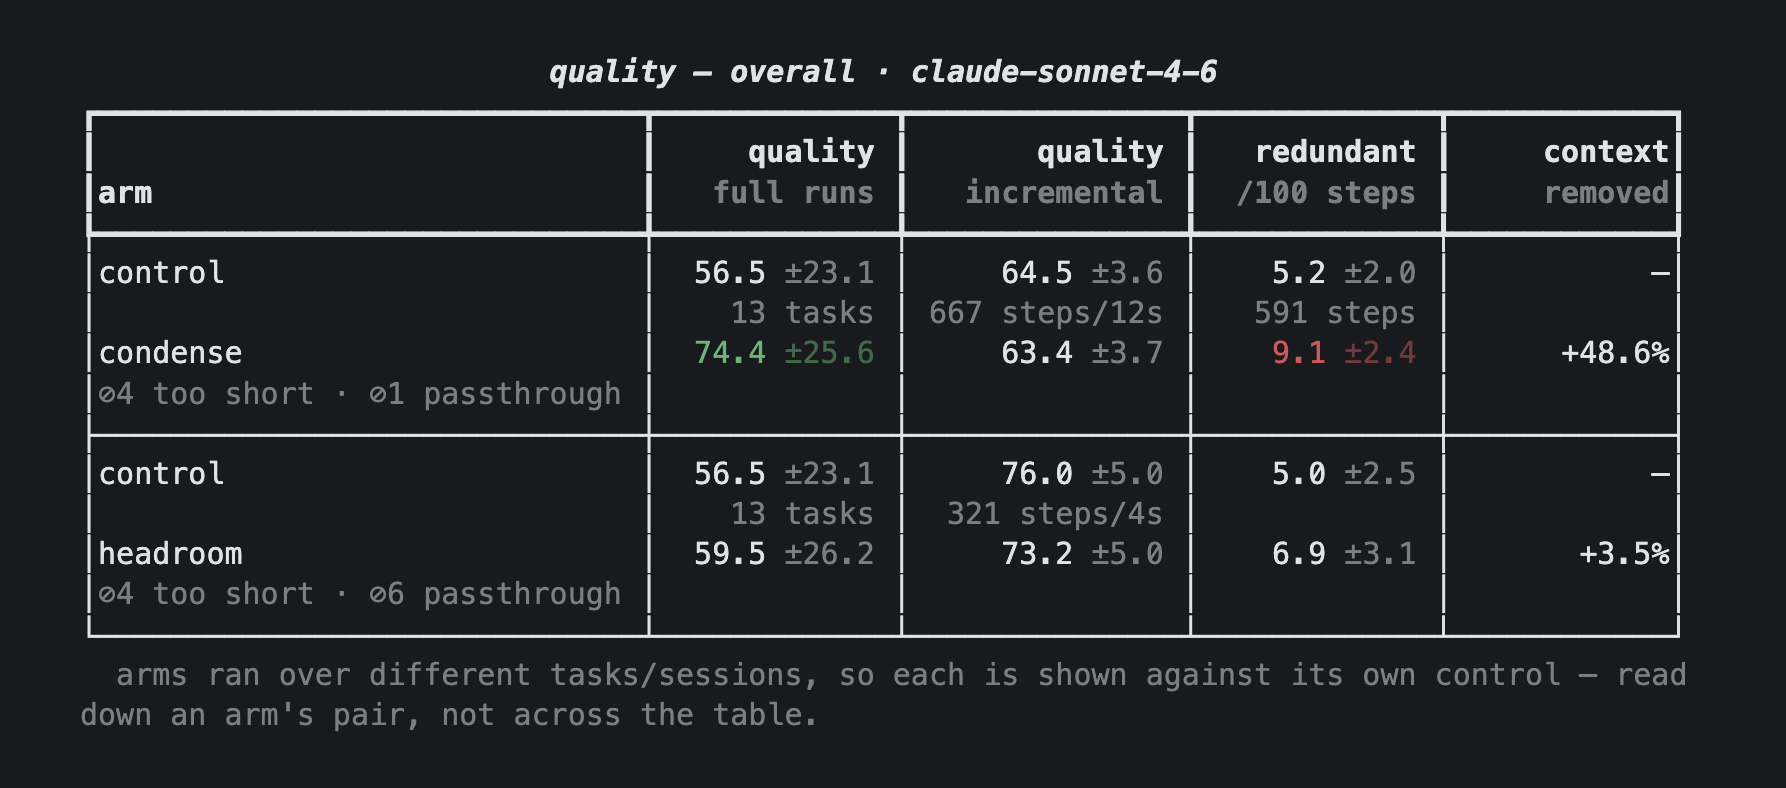
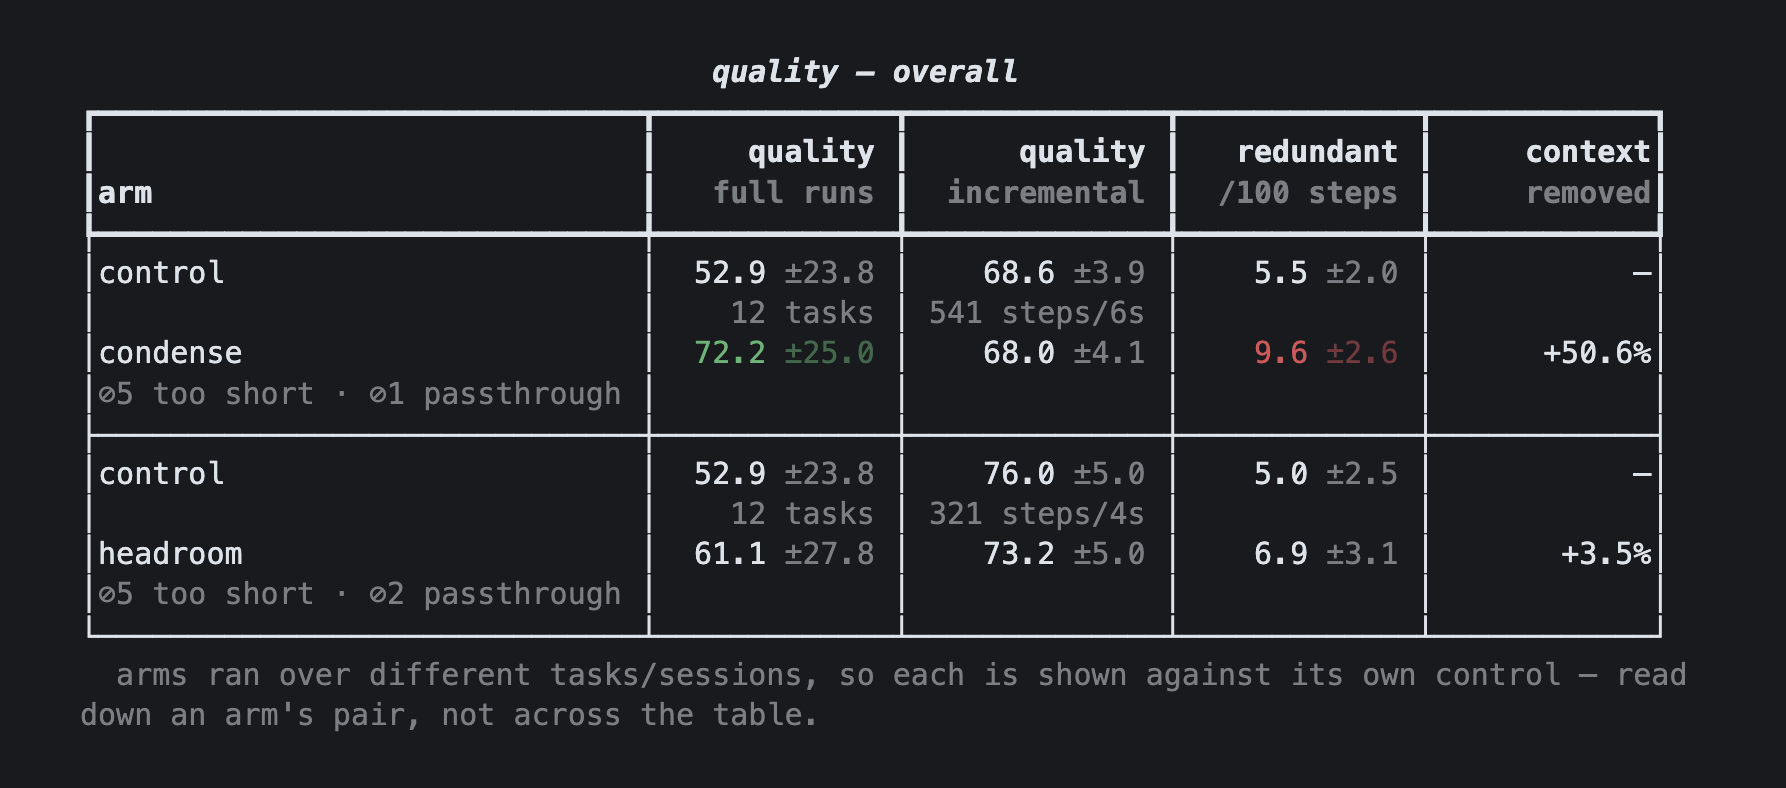
docs: regenerate the overall figure from post-release runs only
The screenshot pooled every incremental session under results/jobs/run, which
reaches back to July 8 — before the headful batch, and so a condense version we
are no longer shipping. Its numbers are not what the current product does, and a
README figure that quietly averages two versions of the thing under test is the
one kind of error this table exists to prevent.

Re-rendered over the post-headful roots only (headful, headful-opus,
headful-sonnet, headfull-opus, headfull-sonnet). condense's incremental pool goes
from 12 sessions to 6, and its per-step quality reads 68.0 against a 68.6 control
rather than 63.4 against 64.5 — the old runs were dragging both legs down.
headroom is unchanged; its four sessions were already post-release.

The title no longer names a model, because the pool spans opus-4-8, sonnet-5 and
sonnet-4-6. That is more accurate than before, not less: the previous figure was
already mixed and simply inherited "claude-sonnet-4-6" from one manifest.

The old artifacts are left on disk — only the figure's scope changed.

diff --git a/README.md b/README.md
@@ -34,8 +34,8 @@ Were tokens saved? Were dollars saved? Was quality kept?
   The report opens on this: every task and session pooled into one row per arm, each number
   with a 95% bootstrap CI. A cell is coloured only when its paired delta vs control excludes
   zero — plain means *indistinguishable from control at this n*, which is the common outcome
-  and not a pass. Read the quality columns against **context removed**: an arm at +3% next to
-  one at +48% isn't gentler, it barely fired.
+  and not a pass. Read the quality columns against **context removed**: an arm at +3.5% next
+  to one at +51% isn't gentler, it barely fired.
 
 
 Cost tells you what a strategy saves; quality tells you whether those savings are real.
